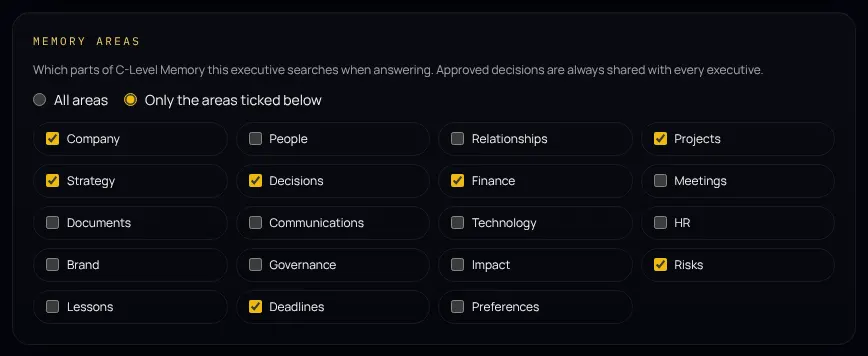
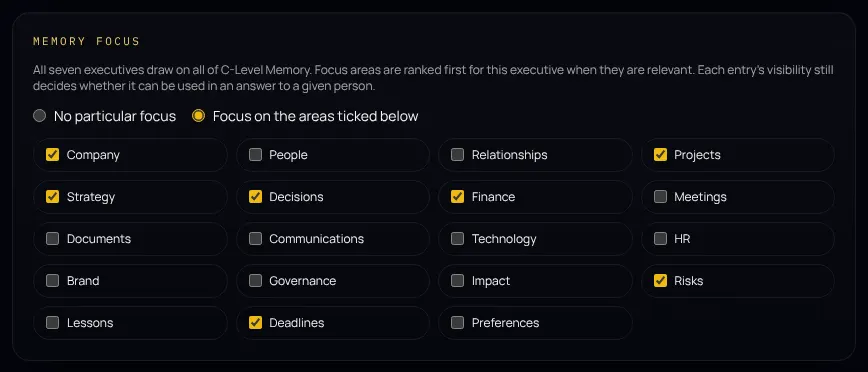
All seven executives draw on all of C-Level Memory
Previously each executive only searched its own memory categories (an entry
filed under Finance was invisible to the CCO, CHRO, CTO and Chief Impact
Officer; only approved decisions were shared). Now every executive may draw
on all of C-Level Memory, as the "Shared Intelligence" promise says:

- An executive's memory categories become focus areas: entries in them rank
  higher for that executive (+0.1); nothing is hidden by category.
- Unchanged: only the most relevant entries (top 8) are used, archived ones
  never, and the asking person's visibility still applies (Leadership only /
  Owner only entries are used only in answers to people who may see them).
- Settings → Configure: "Memory areas" → "Memory focus" ("No particular
  focus" / "Focus on the areas ticked below"); the executive profile shows
  "All of C-Level Memory · focus: …".
- Tests, tutorials (with the Memory focus screenshot) and docs updated.

Claude-Session: https://claude.ai/code/session_01GrVvTT3KfmufXoaVggd3nP

diff --git a/src/config/tutorials.ts b/src/config/tutorials.ts
@@ -495,7 +495,7 @@ export const TUTORIALS: Tutorial[] = [
     who: "Everyone can read; Members and above add; Owners, Admins and Executives verify and delete",
     open: { href: "/memory", label: "Open C-Level Memory" },
     overview:
-      "C-Level Memory is not chat history. It holds facts, decisions, commitments and lessons about your organization, each with where it came from. The executives search it for every answer, but only the parts relevant to the question. Anything an A.I. Executive concludes arrives as PROPOSED and never becomes organizational fact until a person confirms it.",
+      "C-Level Memory is not chat history. It holds facts, decisions, commitments and lessons about your organization, each with where it came from. All seven executives search it for every answer, but only the parts relevant to the question; each one ranks its own focus areas first. Anything an A.I. Executive concludes arrives as PROPOSED and never becomes organizational fact until a person confirms it.",
     flow: [
       { icon: BookmarkPlus, label: "Add or save" },
       { icon: BadgeCheck, label: "Verify" },
@@ -511,7 +511,7 @@ export const TUTORIALS: Tutorial[] = [
       {
         title: "Add knowledge",
         icon: BookmarkPlus,
-        body: "Use Add to C-Level Memory: a Title and Content, a Category, Importance (1 to 5), Visibility (Organization, Leadership only or Owner only), an optional Project, and which executives it is Most relevant to. Things you add yourself count as confirmed.",
+        body: "Use Add to C-Level Memory: a Title and Content, a Category, Importance (1 to 5), Visibility (Organization, Leadership only or Owner only), an optional Project, and which executives it is Most relevant to. Things you add yourself count as confirmed. Every executive can use it; Visibility decides for whom: an executive only uses a Leadership only entry when answering the Owner, an Admin or an Executive, and an Owner only entry when answering the Owner.",
       },
       {
         title: "Confirm what's proposed",
@@ -526,7 +526,7 @@ export const TUTORIALS: Tutorial[] = [
       { kind: "badge", text: "USER CONFIRMED", tone: "ok", meaning: "Added or edited by a person." },
       { kind: "icon", icon: Pin, label: "Pinned", meaning: "Given extra weight when executives search memory." },
     ],
-    tips: ["Approved decisions are shared with all seven executives, whatever memory areas each one normally searches."],
+    tips: ["Most relevant to makes an entry come up more readily for the executives you tick; it does not hide it from the others."],
     related: ["files", "decisions", "configuring-executives"],
   },
   {
@@ -818,10 +818,10 @@ export const TUTORIALS: Tutorial[] = [
       { title: "Identity and persona", icon: Users, body: "Change the title, functional mandate and description; then the persona: core question, north star, communication and decision style, reasoning framework, output preferences, risk constraints and system instructions. Be specific, e.g. “Always give base, upside and downside cases.”" },
       { title: "Model and effort", icon: Sparkles, body: "Choose the provider and model, a fallback, and the reasoning effort (low to max). Higher effort means deeper but slower and more expensive answers; very high effort can make long conversations hit the time limit." },
       {
-        title: "Skills and memory areas",
+        title: "Skills and memory focus",
         icon: Brain,
-        body: "Skills: one per line as “Name — what it covers”. Memory areas: let the executive search all of C-Level Memory, or only the areas you tick. Approved decisions are always shared.",
-        image: { name: "configure-memory", alt: "The Memory areas section with area checkboxes", caption: DEMO },
+        body: "Skills: one per line as “Name — what it covers”. Memory focus: every executive draws on all of C-Level Memory; tick the areas this executive should rank first, or choose No particular focus.",
+        image: { name: "configure-memory", alt: "The Memory focus section with focus-area checkboxes", caption: DEMO },
       },
       { title: "Tools", icon: Plug, body: "Tick the tools this executive may use, such as Web research. Tools marked “requires approval” always go through a human approval. Press Save executive configuration." },
     ],

diff --git a/src/server/memory/retrieval.ts b/src/server/memory/retrieval.ts
@@ -3,15 +3,21 @@ import { cosine, lexicalEmbedding } from "./embeddings";
 
 /**
  * C-Level Memory retrieval scoring. Combines semantic similarity, recency,
- * importance, category permissions, executive relevance, project relevance,
- * verification status, visibility and organization ownership.
+ * importance, the executive's focus areas, executive relevance, project
+ * relevance, verification status, the asking person's visibility and
+ * organization ownership. Every executive may draw on all of C-Level Memory.
  * NEVER returns the whole memory — only the top-k relevant records.
  */
 export interface RetrievalQuery {
   organizationId: string;
   query: string;
   executiveRole?: ExecutiveRoleCode;
-  allowedCategories?: MemoryCategory[] | "ALL";
+  /**
+   * The executive's focus areas. All seven executives may draw on all of
+   * C-Level Memory (shared intelligence); entries in an executive's focus areas
+   * are ranked higher for it. "ALL" (or absent) means no particular focus.
+   */
+  focusCategories?: MemoryCategory[] | "ALL";
   projectId?: string | null;
   viewerRole: Role;
   limit?: number;
@@ -38,15 +44,6 @@ export interface ScoredMemory {
   similarity: number;
 }
 
-/**
- * Decisions a person approved (or confirmed) are organization-wide knowledge:
- * every executive may recall them, whatever memory categories their role
- * normally searches. Unverified (PROPOSED) decision records stay scoped.
- */
-export function isSharedDecision(r: Pick<MemoryRecord, "category" | "status">): boolean {
-  return r.category === "DECISIONS" && (r.status === "VERIFIED" || r.status === "USER_CONFIRMED");
-}
-
 export function rankMemories(records: MemoryRecord[], q: RetrievalQuery): ScoredMemory[] {
   const qv = lexicalEmbedding(q.query);
   const now = (q.now ?? new Date()).getTime();
@@ -55,7 +52,6 @@ export function rankMemories(records: MemoryRecord[], q: RetrievalQuery): Scored
     if (r.organization_id !== q.organizationId) continue; // tenant isolation, defence in depth
     if (r.status === "ARCHIVED") continue;
     if (!canView(r, q.viewerRole)) continue;
-    if (q.allowedCategories && q.allowedCategories !== "ALL" && !q.allowedCategories.includes(r.category) && !isSharedDecision(r)) continue;
 
     const vec = r.embedding && r.embedding.length === qv.length ? r.embedding : lexicalEmbedding(`${r.title} ${r.content}`);
     const similarity = cosine(qv, vec);
@@ -63,10 +59,11 @@ export function rankMemories(records: MemoryRecord[], q: RetrievalQuery): Scored
     const recency = Math.exp(-ageDays / 120);
     const importance = r.importance / 5;
     const execBoost = q.executiveRole && r.executive_relevance.includes(q.executiveRole) ? 0.12 : 0;
+    const focusBoost = Array.isArray(q.focusCategories) && q.focusCategories.includes(r.category) ? 0.1 : 0;
     const projectBoost = q.projectId && r.project_id === q.projectId ? 0.15 : 0;
     const pinBoost = r.pinned ? 0.1 : 0;
 
-    const score = (0.55 * similarity + 0.15 * recency + 0.15 * importance + execBoost + projectBoost + pinBoost) * STATUS_WEIGHT[r.status];
+    const score = (0.55 * similarity + 0.15 * recency + 0.15 * importance + execBoost + focusBoost + projectBoost + pinBoost) * STATUS_WEIGHT[r.status];
     if (similarity > 0.05 || r.pinned) out.push({ record: r, score, similarity });
   }
   return out.sort((a, b) => b.score - a.score).slice(0, q.limit ?? 8);

diff --git a/tests/unit/memory-retrieval.test.ts b/tests/unit/memory-retrieval.test.ts
@@ -18,19 +18,19 @@ describe("C-Level Memory retrieval", () => {
     expect(canView(memory({ title: "x", content: "y", visibility: "LEADERSHIP" }), "EXECUTIVE")).toBe(true);
     expect(canView(memory({ title: "x", content: "y", visibility: "LEADERSHIP" }), "MEMBER")).toBe(false);
   });
-  it("respects executive memory-category permissions", () => {
-    const rows = [memory({ title: "Burn rate", content: "burn rate monthly", category: "FINANCE" }), memory({ title: "Burn rate brand", content: "burn rate monthly", category: "BRAND" })];
-    const out = rankMemories(rows, { ...base, query: "burn rate", allowedCategories: ["FINANCE"] });
-    expect(out.map((r) => r.record.category)).toEqual(["FINANCE"]);
+  it("lets every executive draw on all of C-Level Memory, ranking its focus areas first", () => {
+    const rows = [memory({ title: "Burn rate brand", content: "burn rate monthly", category: "BRAND" }), memory({ title: "Burn rate", content: "burn rate monthly", category: "FINANCE" })];
+    // A CFO-style focus ranks Finance first, but the Brand entry is still available.
+    const cfo = rankMemories(rows, { ...base, query: "burn rate", focusCategories: ["FINANCE"] });
+    expect(cfo.map((r) => r.record.category)).toEqual(["FINANCE", "BRAND"]);
+    // A CCO-style focus (no Finance) still sees the Finance entry.
+    const cco = rankMemories(rows, { ...base, query: "burn rate", focusCategories: ["BRAND", "COMMUNICATIONS"] });
+    expect(cco.map((r) => r.record.category)).toEqual(["BRAND", "FINANCE"]);
   });
-  it("lets every executive recall approved decisions, but not unverified ones", () => {
-    const rows = [
-      memory({ title: "Decision: UK expansion", content: "UK expansion pilot approved", category: "DECISIONS", status: "VERIFIED" }),
-      memory({ title: "Decision draft: UK expansion", content: "UK expansion pilot proposed", category: "DECISIONS", status: "PROPOSED" }),
-    ];
-    // e.g. the CHRO, whose categories do not include DECISIONS
-    const out = rankMemories(rows, { ...base, query: "UK expansion pilot", allowedCategories: ["HR", "PEOPLE"] });
-    expect(out.map((r) => r.record.status)).toEqual(["VERIFIED"]);
+  it("still applies the asking person's visibility, whatever the executive", () => {
+    const rows = [memory({ title: "Board salary bands", content: "salary bands board", category: "HR", visibility: "LEADERSHIP" })];
+    expect(rankMemories(rows, { ...base, query: "salary bands", focusCategories: "ALL" })).toHaveLength(0);
+    expect(rankMemories(rows, { ...base, viewerRole: "ADMIN", query: "salary bands", focusCategories: ["FINANCE"] })).toHaveLength(1);
   });
   it("ranks verified above proposed for equal relevance", () => {
     const rows = [memory({ title: "Pricing", content: "enterprise pricing annual", status: "PROPOSED" }), memory({ title: "Pricing", content: "enterprise pricing annual", status: "VERIFIED" })];

diff --git a/tests/unit/executive-knowledge.test.ts b/tests/unit/executive-knowledge.test.ts
@@ -52,7 +52,7 @@ describe("each executive's own knowledge vs company documents", () => {
       assembleExecutiveContext({ organization: org, viewerRole: "OWNER", exec: (await AIExecutiveRegistry.resolve(org.id, (role === "CFO" ? cfo : cco)!.id))!, query });
     const [forCfo, forCco] = await Promise.all([ask("CFO"), ask("CCO")]);
 
-    // Both executives draw on the company document — including the CCO, whose memory areas exclude documents.
+    // Both executives draw on the company document — including the CCO, whose focus areas exclude documents.
     expect(forCfo.system).toContain("# COMPANY DOCUMENTS");
     expect(forCfo.system).toContain("Operating plan.txt");
     expect(forCco.system).toContain("Operating plan.txt");
@@ -60,5 +60,20 @@ describe("each executive's own knowledge vs company documents", () => {
     // Only the CFO sees its private document.
     expect(forCfo.system).toContain("Discount approval matrix");
     expect(forCco.system).not.toContain("Discount approval matrix");
+  });
+
+  it("every executive draws on all of C-Level Memory, not only its focus areas", async () => {
+    const { newId, nowIso } = await import("@/server/db/store");
+    const now = nowIso();
+    await db().memory.insert({
+      id: newId(), organization_id: org.id, project_id: null, title: "Cash runway", content: "Cash runway is 14 months at the current monthly burn.", category: "FINANCE", importance: 4, status: "VERIFIED", pinned: false,
+      source_type: "HUMAN_ENTRY", source_id: null, executive_relevance: [], visibility: "ORGANIZATION", confidence: 1, created_by: "u1", verified_by: "u1", embedding: null, created_at: now, updated_at: now,
+    } as never);
+    const cco = await AIExecutiveRegistry.getByRole(org.id, "CCO");
+    expect(cco!.id).toBeTruthy();
+    const resolved = (await AIExecutiveRegistry.resolve(org.id, cco!.id))!;
+    expect(resolved.model.memory_categories).not.toContain("FINANCE");
+    const built = await assembleExecutiveContext({ organization: org, viewerRole: "MEMBER", exec: resolved, query: "How long is our cash runway?" });
+    expect(built.system).toContain("Cash runway is 14 months");
   });
 });

diff --git a/src/server/ai/executives/context.ts b/src/server/ai/executives/context.ts
@@ -11,7 +11,8 @@ import type { Organization, ResolvedExecutive, Role } from "@/types/domain";
 
 /**
  * Assembles layered context for one executive and one request. Retrieves only
- * what is relevant: top-k memory within the executive's permitted categories,
+ * what is relevant: top-k C-Level Memory (all of it, focus areas first; the asking
+ * person's visibility applies),
  * the most relevant passages of company documents (every executive), this
  * executive's own library, explicitly attached files, and the project in scope.
  */
@@ -30,7 +31,7 @@ export async function assembleExecutiveContext(args: {
   const d = db();
   const [constitution, memory, files, project, ceoIntelligence, platformRules, core, webResearchRules, lessons, library, companyDocuments] = await Promise.all([
     getConstitution(orgId),
-    retrieveMemory({ organizationId: orgId, query: args.query, executiveRole: args.exec.role_code, allowedCategories: args.exec.model.memory_categories, projectId: args.projectId, viewerRole: args.viewerRole, limit: 8 }),
+    retrieveMemory({ organizationId: orgId, query: args.query, executiveRole: args.exec.role_code, focusCategories: args.exec.model.memory_categories, projectId: args.projectId, viewerRole: args.viewerRole, limit: 8 }),
     Promise.all((args.fileIds ?? []).slice(0, 5).map((id) => d.files.get(orgId, id))),
     args.projectId ? d.projects.get(orgId, args.projectId) : Promise.resolve(null),
     args.exec.role_code === "CEO" ? d.ceoIntelligence.list(orgId, { where: { included: true }, limit: 20 }) : Promise.resolve([]),
@@ -39,7 +40,7 @@ export async function assembleExecutiveContext(args: {
     args.webResearch ? PromptRegistry.resolve(orgId, "web_research_rules") : Promise.resolve(null),
     approvedLessons(orgId, args.exec.id),
     retrieveLibrary(orgId, args.exec, args.query),
-    // Company-wide documents: every executive draws on them, whatever its memory areas.
+    // Company-wide documents: every executive draws on them.
     retrieveCompanyDocuments({ organizationId: orgId, query: args.query, viewerRole: args.viewerRole, excludeFileIds: args.fileIds }),
   ]);
   const ctx: ContextBundle = {

diff --git a/src/app/(c-suite)/settings/c-level/[slug]/page.tsx b/src/app/(c-suite)/settings/c-level/[slug]/page.tsx
@@ -74,11 +74,11 @@ export default async function ConfigureExecutivePage({ params }: PageProps<"/set
           <Textarea id="skills" name="skills" aria-label="Skills" rows={Math.min(12, Math.max(4, e.skills.length + 1))} defaultValue={e.skills.map((s) => (s.description ? `${s.name} — ${s.description}` : s.name)).join("\n")} placeholder="Scenario modeling — base, upside and downside cases with explicit drivers" />
         </Card>
         <Card className="space-y-3">
-          <SectionTitle>Memory areas</SectionTitle>
-          <p className="text-xs text-ivory-muted">Which parts of C-Level Memory this executive searches when answering. Approved decisions are always shared with every executive.</p>
+          <SectionTitle>Memory focus</SectionTitle>
+          <p className="text-xs text-ivory-muted">All seven executives draw on all of C-Level Memory. Focus areas are ranked first for this executive when they are relevant. Each entry&apos;s visibility still decides whether it can be used in an answer to a given person.</p>
           <div className="flex flex-wrap gap-4 text-sm">
-            <label className="flex items-center gap-2"><input type="radio" name="memory_scope" value="ALL" defaultChecked={e.model.memory_categories === "ALL"} className="accent-gold-400" /> All areas</label>
-            <label className="flex items-center gap-2"><input type="radio" name="memory_scope" value="SELECTED" defaultChecked={e.model.memory_categories !== "ALL"} className="accent-gold-400" /> Only the areas ticked below</label>
+            <label className="flex items-center gap-2"><input type="radio" name="memory_scope" value="ALL" defaultChecked={e.model.memory_categories === "ALL"} className="accent-gold-400" /> No particular focus</label>
+            <label className="flex items-center gap-2"><input type="radio" name="memory_scope" value="SELECTED" defaultChecked={e.model.memory_categories !== "ALL"} className="accent-gold-400" /> Focus on the areas ticked below</label>
           </div>
           <div className="grid grid-cols-2 gap-2 sm:grid-cols-3 lg:grid-cols-4">
             {MEMORY_CATEGORIES.map((c) => (

diff --git a/src/server/settings/actions.ts b/src/server/settings/actions.ts
@@ -183,14 +183,14 @@ export async function updateExecutiveConfigAction(_: SettingsState, fd: FormData
     const ctx = await authorize("executives.configure");
     const p = ExecPatch.parse(Object.fromEntries(fd));
     const tools = fd.getAll("tools").map(String).filter((t) => t in TOOL_REGISTRY);
-    // Memory areas: "all", or the chosen categories (at least one).
+    // Memory focus: no particular focus ("ALL"), or the chosen focus areas (at least one). Every executive can draw on all memory.
     const areas = fd.getAll("memory_categories").map(String);
     const memory_categories: AIExecutiveModelConfig["memory_categories"] | undefined = fd.has("memory_scope")
       ? fd.get("memory_scope") === "ALL"
         ? "ALL"
         : (MEMORY_CATEGORIES.filter((c) => areas.includes(c)) as MemoryCategory[])
       : undefined;
-    if (Array.isArray(memory_categories) && memory_categories.length === 0) return { error: "Choose at least one memory area, or allow all areas." };
+    if (Array.isArray(memory_categories) && memory_categories.length === 0) return { error: "Tick at least one focus area, or choose No particular focus." };
     const skills = fd.has("skills") ? parseSkills(String(fd.get("skills"))) : null;
     const exec = await AIExecutiveRegistry.getExecutive(ctx.organization.id, p.executive_id);
     if (!exec) return { error: "Executive not found." };

diff --git a/src/app/(c-suite)/executives/[slug]/page.tsx b/src/app/(c-suite)/executives/[slug]/page.tsx
@@ -167,8 +167,8 @@ function ProfileTab({ exec, canConfigure }: { exec: NonNullable<Awaited<ReturnTy
           <div className="flex flex-wrap gap-1.5">
             {exec.model.tool_permissions.map((t) => <Badge key={t} tone="neutral">{TOOL_REGISTRY[t]?.label ?? t}</Badge>)}
           </div>
-          <p className="mt-4 font-mono text-[10px] tracking-[0.18em] text-ivory-faint">MEMORY ACCESS</p>
-          <p className="mt-1 text-xs text-ivory-muted">{exec.model.memory_categories === "ALL" ? "All categories" : exec.model.memory_categories.join(", ").toLowerCase()}</p>
+          <p className="mt-4 font-mono text-[10px] tracking-[0.18em] text-ivory-faint">C-LEVEL MEMORY</p>
+          <p className="mt-1 text-xs text-ivory-muted">All of C-Level Memory{exec.model.memory_categories === "ALL" ? "" : ` · focus: ${exec.model.memory_categories.join(", ").toLowerCase()}`}</p>
           <p className="mt-4 font-mono text-[10px] tracking-[0.18em] text-ivory-faint">ENGINE</p>
           <p className="mt-1 text-xs text-ivory-muted">{exec.model.primary_model} · fallback {exec.model.fallback_model ?? "none"} · prompt {exec.model.prompt_key}_v1</p>
         </Card>

diff --git a/src/server/files/company-documents.ts b/src/server/files/company-documents.ts
@@ -9,7 +9,7 @@ import { listCompanyFiles } from "./service";
  *
  * Company-wide files (the Files tab and the foundational documents uploaded
  * during onboarding) are searched for every request, by all seven executives,
- * whatever their memory areas. Each document is split into passages and only
+ * whatever their focus areas. Each document is split into passages and only
  * the few passages most relevant to the question reach the model, within a
  * character budget. Files private to one executive (its Learning tab) are
  * excluded here; that executive reads them through its own library.

diff --git a/src/config/tutorial-media.ts b/src/config/tutorial-media.ts
@@ -8,7 +8,7 @@ export const TUTORIAL_MEDIA = {
   "ceo-intelligence": { width: 1176, height: 836 },
   "comms-compose": { width: 1176, height: 823 },
   "comms": { width: 1176, height: 836 },
-  "configure-memory": { width: 868, height: 356 },
+  "configure-memory": { width: 868, height: 372 },
   "configure": { width: 868, height: 284 },
   "conversation": { width: 832, height: 531 },
   "decisions": { width: 1096, height: 455 },

diff --git a/docs/EXECUTIVE_LEARNING.md b/docs/EXECUTIVE_LEARNING.md
@@ -18,7 +18,7 @@ Every answer's metadata records the `lesson_ids` and `library_ids` that informed
 | **Its own knowledge**: documents uploaded and knowledge written in its **Learning** tab | That executive only | Learning tab (`executives.configure`) | [L#] |
 | **Built-in frameworks** for its role | That executive | Library tab: turn on/off | [L#] |
 | **Company documents**: Files tab and onboarding uploads | All seven executives | Files (`files.upload`) | [D#] |
-| **C-Level Memory**: facts, decisions, commitments | Executives whose memory areas include them; approved decisions always | Memory | [M#] |
+| **C-Level Memory**: facts, decisions, commitments | All seven executives (each ranks its focus areas first); the asking person's visibility applies | Memory | [M#] |
 
 ### Private executive documents
 - Uploaded with `POST /api/executives/[slug]/documents`. The file is stored with `files.executive_id` set (migration 012), so it is **not listed in Files** (`listCompanyFiles`) and **not added to C-Level Memory**.
@@ -32,12 +32,12 @@ Every answer's metadata records the `lesson_ids` and `library_ids` that informed
 - **Retrieval:** for each request, enabled items are ranked by lexical similarity to the query, with a small preference for the organization's own items. At most 4 items and about 7,000 characters reach the model, as the `executive_library` layer ("your own knowledge").
 
 ### Company documents (`src/server/files/company-documents.ts`)
-- Every executive, whatever its memory areas, searches the organization's company files for each request: documents are split into ~1,600-character passages, and the 3 most relevant passages (at most 2 per file, ~6,000 characters) reach the model as the `company_documents` layer.
+- Every executive searches the organization's company files for each request: documents are split into ~1,600-character passages, and the 3 most relevant passages (at most 2 per file, ~6,000 characters) reach the model as the `company_documents` layer.
 - The 80 most recent readable files are considered, the first 60,000 characters of each. Files private to one executive are excluded.
 - Documents uploaded before their format was readable get their text read in the background (`backfillDocumentText`, scheduled with `after()` from `requireContext`).
 
-## Skills and memory areas
-In Settings → A.I. C-Level → Configure, admins can now edit each executive's **skills** ("Name — description" per line; given to the model as its expertise) and **memory areas** (all, or chosen categories). Approved decisions are always shared with every executive (`isSharedDecision`).
+## Skills and memory focus
+In Settings → A.I. C-Level → Configure, admins can now edit each executive's **skills** ("Name — description" per line; given to the model as its expertise) and **memory focus** (no particular focus, or chosen categories ranked first). Every executive draws on all of C-Level Memory.
 
 ## Data and security
 Migration 009 adds `executive_feedback`, `executive_lessons` and `executive_library_items`, each with `organization_id` and RLS.

diff --git a/docs/MEMORY_ARCHITECTURE.md b/docs/MEMORY_ARCHITECTURE.md
@@ -13,7 +13,7 @@ C-Level Memory is organizational intelligence — facts, decisions, commitments,
 human entry · uploaded document · executive conversation · C-Level Session · report · external integration · API · research · import (onboarding Constitution).
 
 ## Retrieval (`src/server/memory/retrieval.ts`)
-Score = (0.55·similarity + 0.15·recency + 0.15·importance + executive-relevance boost + project boost + pin boost) × status weight, after hard filters: organization, not archived, viewer visibility, executive's permitted categories (except approved decisions: VERIFIED or USER_CONFIRMED records in DECISIONS are organization-wide and every executive may recall them, see `isSharedDecision`). Top-k (default 8) only — the full memory is never sent to a model.
+Score = (0.55·similarity + 0.15·recency + 0.15·importance + executive-relevance boost + focus-area boost + project boost + pin boost) × status weight, after hard filters: organization, not archived, the asking person's visibility. **All seven executives may draw on all of C-Level Memory** (shared intelligence); an executive's focus areas (`memory_categories`, Settings → A.I. C-Level → Configure) only rank those categories higher (+0.1). Top-k (default 8) only — the full memory is never sent to a model.
 
 - Demo/default: lexical embedding (hashed bag-of-words, 256-d) — labelled as lexical, not semantic.
 - Production: provider embeddings into `semantic_embedding vector(1536)`; `match_memory_records()` pre-filters ~40 candidates by cosine distance (HNSW), then the same ranking applies. Embedding worker is Phase 7.
